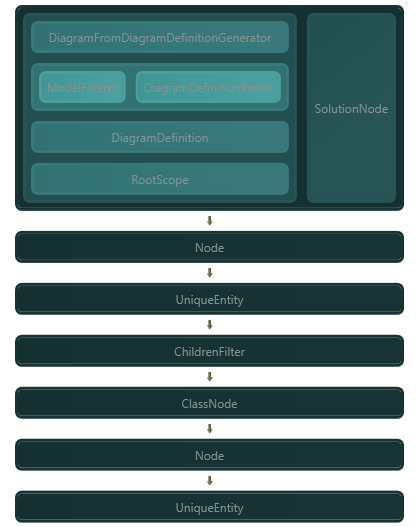
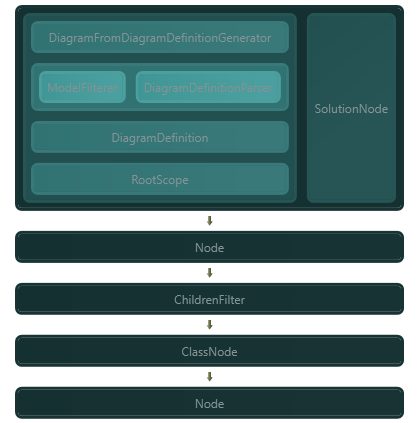
Further simplified error case

diff --git a/Tests/Units/Presentation/PngGenerationTests.cs b/Tests/Units/Presentation/PngGenerationTests.cs
@@ -75,6 +75,7 @@ namespace Tests.Units.Presentation
             filtering.RemoveChild(nameof(SiblingReorderer));
             filtering.RemoveChild(nameof(ClassFilters));
             filtering.RemoveChild(nameof(NodeFilters));
+            filtering.RemoveChild(nameof(PatternFinder));
             //filtering.RemoveChild(nameof(ChildrenFilter));
             logic.RemoveChild("Integration");
             logic.RemoveChild("Common");
@@ -89,10 +90,13 @@ namespace Tests.Units.Presentation
             sem.RemoveChild(nameof(VerticalSiblingHolderNode));
             sem.RemoveChild(nameof(HorizontalSiblingHolderNode));
             sem.RemoveChild(nameof(NodeExtensions));
-            //sem.RemoveChild(nameof(SolutionNode));
+            sem.RemoveChild(nameof(UniqueEntity));
+            sem.RemoveChild(nameof(ProjectNode));
+            sem.RemoveChild(nameof(SiblingHolderNode));
             /* logic.RemoveChild("SemanticTree");*/
 
-            var pres = lib.Childs.WithName("Presentation");
+            //Presentation filtering
+            /*var pres = lib.Childs.WithName("Presentation");
             pres = pres.Childs.WithName("Presentation");
             pres.RemoveChild("Coloring");
             pres.RemoveChild("Views");
@@ -101,8 +105,11 @@ namespace Tests.Units.Presentation
             var viewModels = pres.Childs.WithName("ViewModels");
             viewModels.RemoveChild(nameof(ArchViewModel));
             viewModels.RemoveChild(nameof(ArrowViewModel));
-            viewModels.RemoveChild(nameof(LayerViewModel));        
+            viewModels.RemoveChild(nameof(LayerViewModel));
+            viewModels.RemoveChild(nameof(DiagramSymbolViewModel));
             pres.RemoveChild(nameof(BitmapRenderer));
+            pres.RemoveChild("ViewModels");*/
+            lib.RemoveChild("Presentation");
 
             ModelFilterer.ApplyFilter(ref tree, modelDef.Filters);
             DiagramFromDiagramDefinitionGenerator.ReverseTree(tree);
